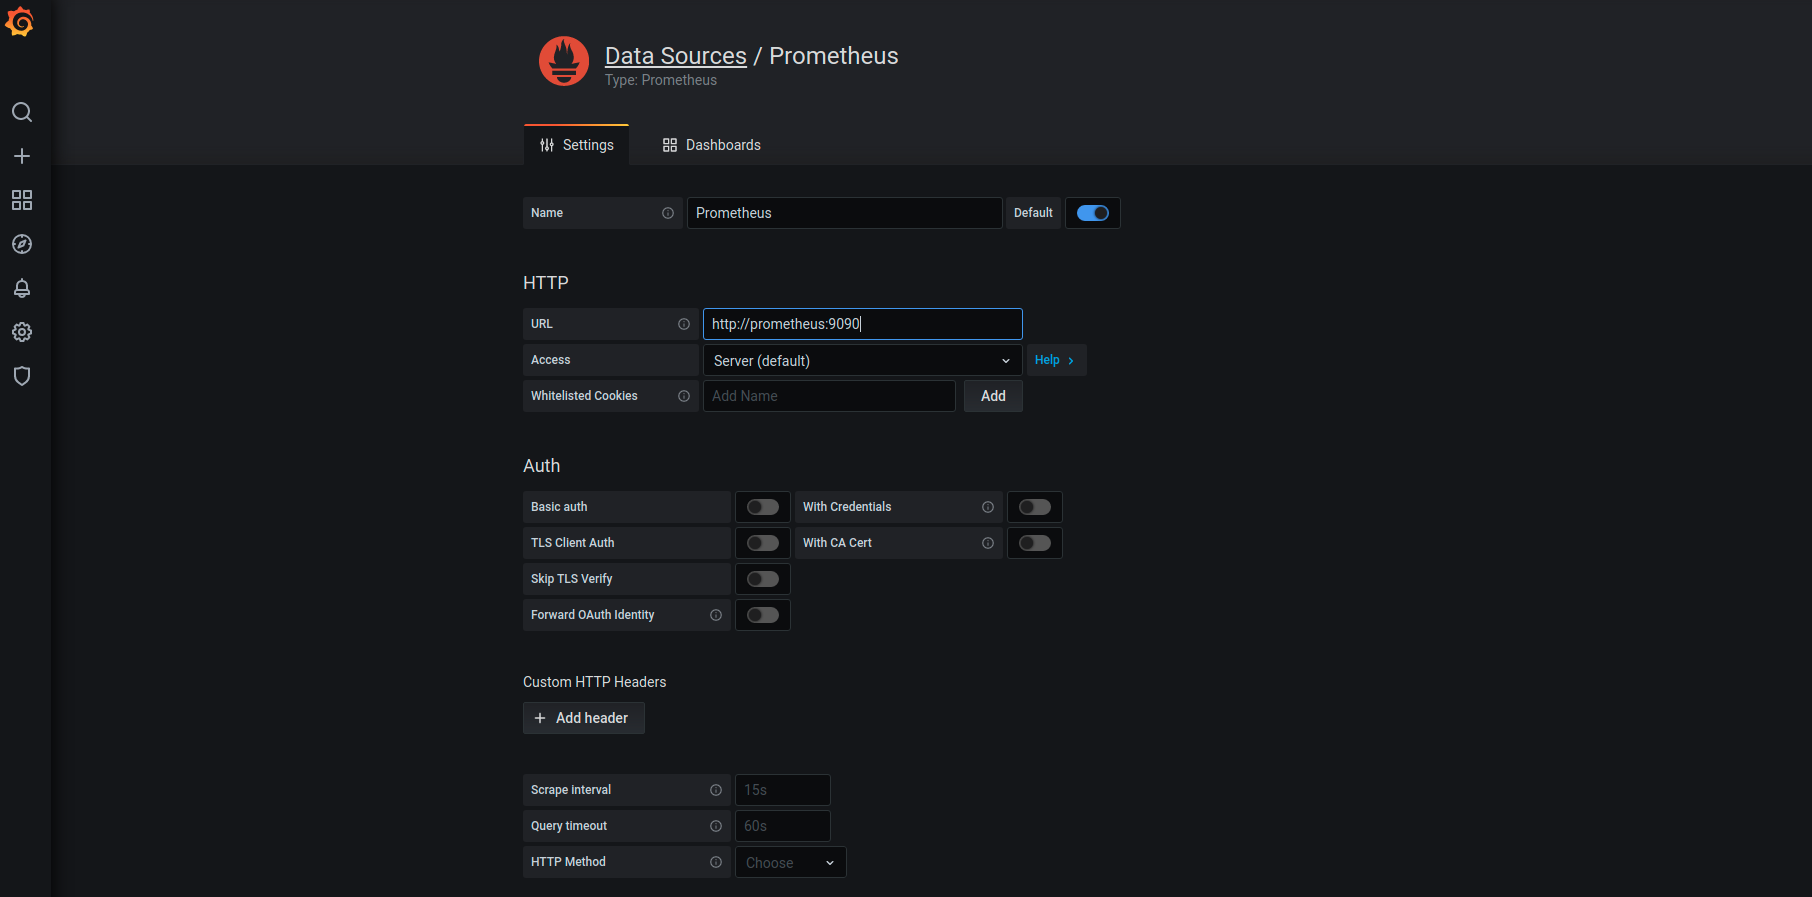
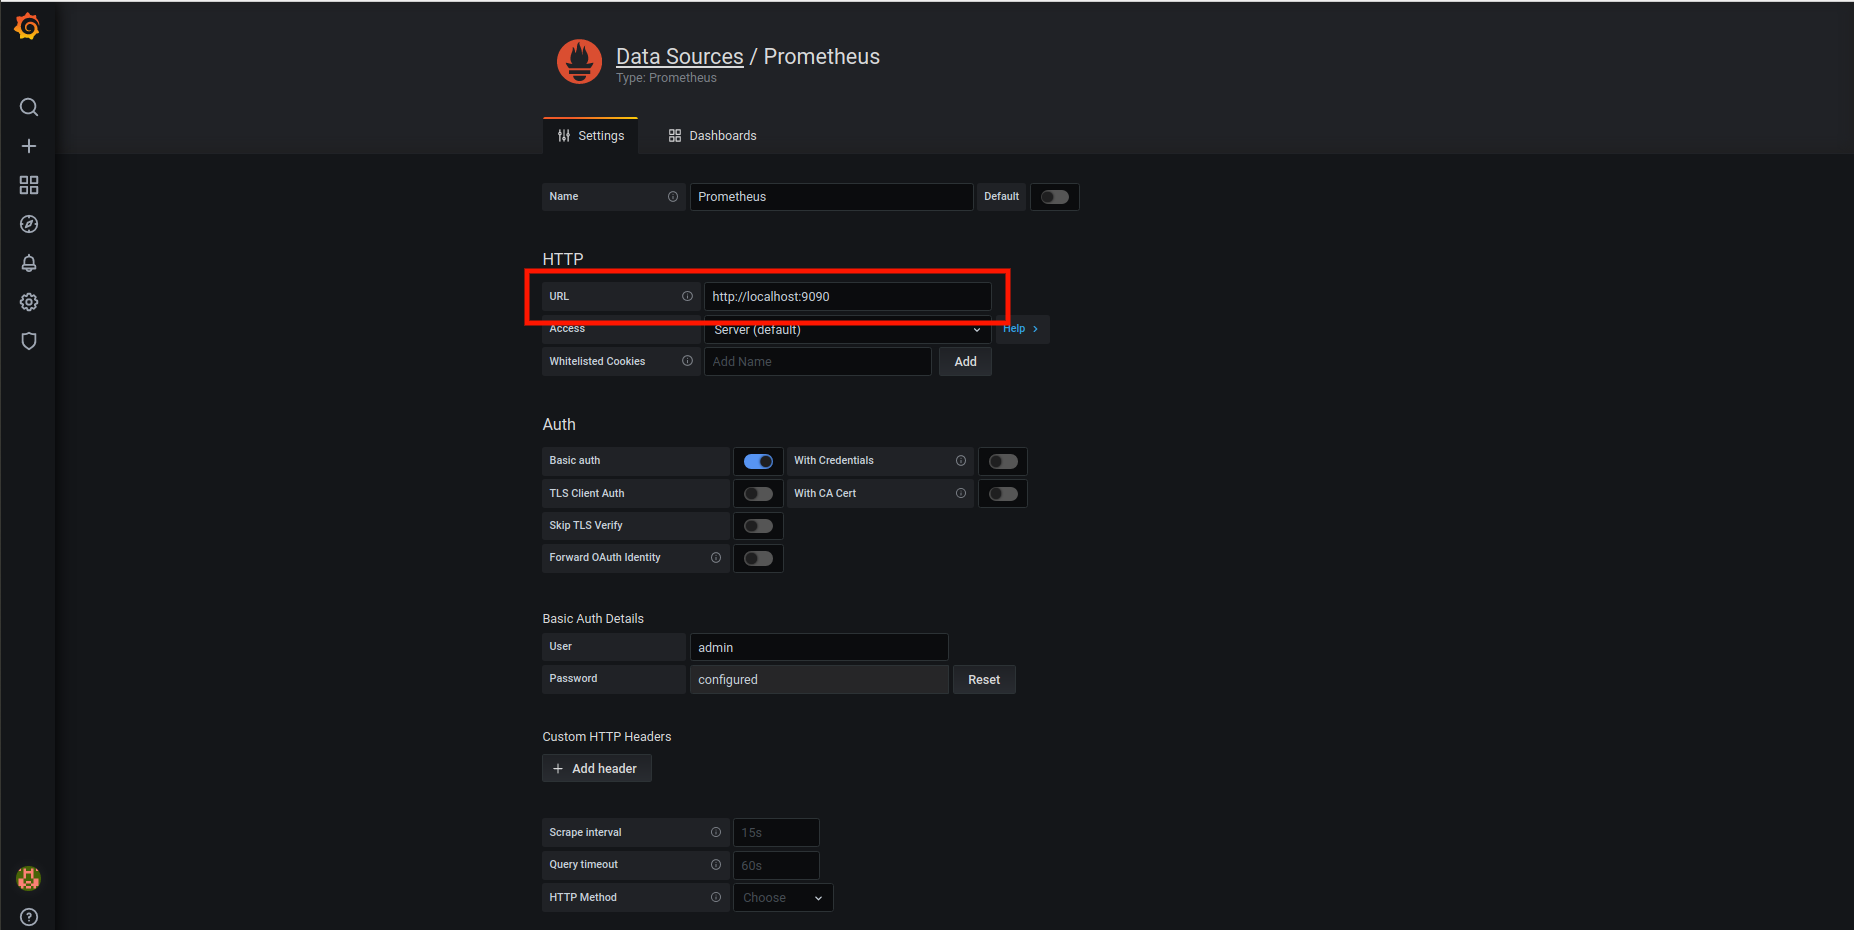
Como configurar minha aplicação no Prometheus?

diff --git a/informacao_suporte/prometheus-target.md b/informacao_suporte/prometheus-target.md
@@ -1,0 +1,69 @@
+# Como configurar minha aplicação no Prometheus?
+
+Para configurar sua aplicação no Prometheus, primeiro precisamos entender o que é **Target**!
+
+> Está em dúvida sobre o que é Target no Prometheus? Não se preocupe! Escrevemos um [material específico para você!](../informacao_procedural/acessando_prometheus.md)
+
+Eba! Agora que sabemos o que é Prometheus e Target! Vamos colocar configurar nossa aplicação?
+
+Imagino que esteja utilizando nosso [docker-compose](../ops/docker-compose.yaml), primeiro precisamos parar o container 
+do Prometheus para isso execute o comando abaixo:
+
+```shell script
+$ echo "Syntax"
+$ docker-compose -f <DOCKER-COMPOSE-FILE>.yaml stop <NOME-DO-SERVIÇO>
+
+$ echo "Examplo"
+$ docker-compose -f nosso_cartao.yaml stop prometheus
+```
+
+Agora que nosso container do Prometheus está parado, precisamos criar e configurar o arquivo `prometheus.yml` na pasta 
+raiz onde se encontra o arquivo do nosso docker-compose, como por exemplo o `nosso_cartao.yaml`!
+
+Caso já exista o arquivo `prometheus.yml`, utilize o mesmo e adicone o `job_name` no ramo `scrape_configs` conforme 
+examplo abaixo:
+
+```yaml
+# Restante omitido
+scrape_configs:
+
+  - job_name: 'proposta'
+    metrics_path: '/actuator/prometheus'
+    static_configs:
+      - targets: ['localhost:8080']
+```
+
+Caso não tenha o arquivo `prometheus.yml` crie o mesmo e adicione as seguintes informações:
+
+```yaml
+global:
+  scrape_interval:     15s
+  evaluation_interval: 15s
+
+scrape_configs:
+
+  - job_name: 'proposta'
+    metrics_path: '/actuator/prometheus'
+    static_configs:
+      - targets: ['localhost:8080']
+```
+
+Eba está tudo configurado! Vamos testar?
+
+Para testar precisamos somente iniciar o container novamente, conforme exemplo abaixo:
+
+```shell script
+$ echo "Syntax"
+$ docker-compose -f <DOCKER-COMPOSE-FILE>.yaml start <NOME-DO-SERVIÇO>
+
+$ echo "Examplo"
+$ docker-compose -f nosso_cartao.yaml start prometheus
+```
+
+Após iniciar o Prometheus vá no aba de [Targets](http://localhost:9090/targets) e verifique se sua aplicação está UP!
+
+## Informações de suporte
+
+Gostaria de saber mais sobre Prometheus? Acesse o [link!](../informacao_procedural/prometheus.md)
+
+Gostaria de saber mais sobre o arquivo `prometheus.yml`? Acesse o [link!](https://prometheus.io/docs/prometheus/latest/configuration/configuration/#configuration-file)

diff --git a/proposta/100.rodando_prometheus.md b/proposta/100.rodando_prometheus.md
@@ -30,9 +30,9 @@ Métricas armazenada no Prometheus. Consultar via interface gráfica
     
     * Teve dificuldade com a documentação? Não tem problema! [Aqui você encontra como fazer isso !!!](../informacao_procedural/prometheus.md)
     
-* Talvez esteja se perguntando, como utilizando Prometheus eu consigo visualizar as métricas em uma interface gráfica? [Aqui tem uma explicação do que entendemos que você deve considerar!](../informacao_procedural/acessando_prometheus.md)
+* Talvez esteja se perguntando, como utilizando Prometheus eu consigo visualizar as métricas em uma interface gráfica? [Aqui tem uma explicação do que entendemos que você deve considerar!](../informacao_procedural/prometheus-overview.md)
 
-* No material anterior você viu muito sobre o Prometheus, talvez esteja se perguntando, como mapear minhas aplicações no Prometheus? [Aqui tem uma explicação do que entendemos que você deve considerar!]() **FIXME CLAUDIO**
+* No material anterior você viu muito sobre o Prometheus, talvez esteja se perguntando, como mapear minhas aplicações no Prometheus? [Aqui tem uma explicação do que entendemos que você deve considerar!](../informacao_suporte/prometheus-target.md)
 
 ## Sugestões de busca de conteúdo
 

diff --git a/informacao_procedural/configurando_datastore_grafana.md b/informacao_procedural/configurando_datastore_grafana.md
@@ -43,7 +43,7 @@ para possíveis ataques.
 
 Então vamos configurar nosso **Prometheus**!
 
-Como podemos observar na tela abaixo colocamos o endereço **http://prometheus:9090** na configuração, mas porque este endereço?
+Como podemos observar na tela abaixo colocamos o endereço **http://localhost:9090** na configuração, mas porque este endereço?
 
 ![config prometheus](../images/endereco_prometheus.png " config prometheus")
 
